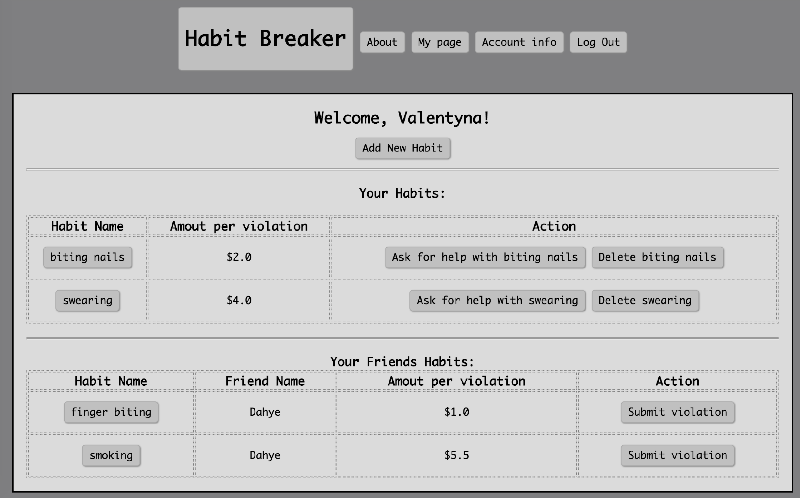
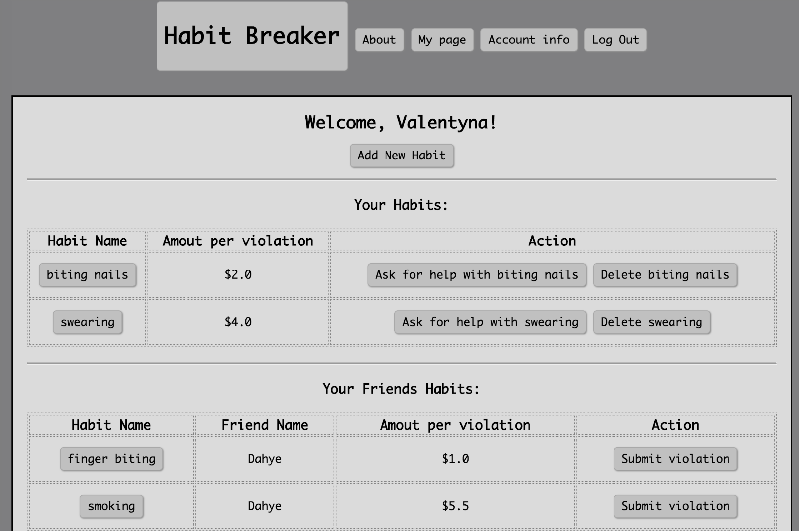
updated pictures for habitbreakers project and modifyed index.html for the propper representation pictures and links

diff --git a/index.html b/index.html
@@ -206,7 +206,7 @@
                                             <p>AngularJS, Firebase, AngularFire, Firepad, Codemirror, HTML5, CSS</p>
                                         </div>
                                     </div>
-                                    <img src="img/portfolio_dn1.png" class="img-portfolio img-responsive" alt="">
+                                    <img src="img/portfolio_dn1.png" class="img-portfolio img-responsive" alt="Screen shot of the web page dojoninjas-29b0d.firebaseapp.com">
                                 </a>
                             </div>
                         </div>
@@ -219,7 +219,7 @@
                                             <p>Ruby on Rails, RSpec, PostgreSQL, HTML5, CSS, Bootstrap, AWS</p>
                                         </div>
                                     </div>
-                                    <img src="img/portfolio-2.jpg" class="img-portfolio img-responsive" alt="">
+                                    <img src="img/portfolio-2.jpg" class="img-portfolio img-responsive" alt="Screen shot of the web page http://dreamsbakery.vgorbachenko.com after loging in">
                                 </a>
                             </div>
                         </div>
@@ -232,7 +232,7 @@
                                             <p>Python, MySQL, Pylot MVC, Twilio API, HTML5, CSS, AWS</p>
                                         </div>
                                     </div>
-                                    <img src="img/portfolio-3.jpg" class="img-portfolio img-responsive" alt="">
+                                    <img src="img/portfolio_hb1.png" class="img-portfolio img-responsive" alt="Screen shot of the web page http://habitbreakers.vgorbachenko.com after loging in">
                                 </a>
                             </div>
                         </div>
@@ -245,7 +245,7 @@
                                             <p>WordPress, HTML5, CSS, CMS, freezoy</p>
                                         </div>
                                     </div>
-                                    <img src="img/portfolio_vv1.png" class="img-portfolio img-responsive" alt="">
+                                    <img src="img/portfolio_vv1.png" class="img-portfolio img-responsive" alt="Screen shot of the home page http://gorbachenko.freezoy.com">
                                 </a>
                             </div>
                         </div>
@@ -414,8 +414,8 @@
                         <div class="modal-body">
                             <h2>HabitBreakers</h2>
                             <hr class="star-primary">
-                            <a href="https://github.com/ValentynaGorbachenko/habitbreaker"><img src="img/portfolio-3.jpg" class="img-responsive img-portfolio" alt=""></a>
-                            <p>Collaborated on a team of four to create an application that helps people to break their habits. Idea is to register and ask your friends or relatives to help you break your habit. Any user can have habits and ask for help by setting a fee to be payed to the helper/non-profit, or be a helper and track habit holder and submit violation.</p>
+                            <a href="http://habitbreakers.vgorbachenko.com"><img src="img/portfolio_hb1.png" class="img-responsive img-portfolio" alt="Screen shot of the web page after loging in to the http://habitbreakers.vgorbachenko.com" title="Screen shot of the web page after loging in"><img src="img/portfolio_hb2.png" class="img-responsive img-portfolio" alt="Screen shot of the web page http://habitbreakers.vgorbachenko.com that shows list of helpers" title="Screen shot of the web page that shows list of helpers"><img src="img/portfolio_hb3.png" class="img-responsive img-portfolio" alt="Screen shot of the web page http://habitbreakers.vgorbachenko.com that shows a form where user can update its information" title="Screen shot of the web page that shows a form where user can update its information"><img src="img/portfolio_hb4.png" class="img-responsive img-portfolio" alt="Screen shot of the web page http://habitbreakers.vgorbachenko.com that shows a form where user can create a new habit" title="Screen shot of the web page that shows a form where user can create a new habit"></a>
+                            <p>Collaborated on a team of four to create an application that helps people to break their habits. Idea is to register and ask your friends or relatives to help you break your habit. Any user can have habits and ask for help by setting a fee to be payed to the helper/non-profit, or to be a helper and track your friends habits and submit violations.</p>
                             <p>Owned design of the database, overall architecture of the app, full CRUD operations for users and habits.</p>
                             <p><strong>Technology used</strong>: Python, MySQL, Pylot MVC, Twilio API, HTML5, CSS, AWS</p>
                             <ul class="list-inline item-details">
@@ -428,6 +428,10 @@
                                 </li>
                                 <li>GitHub:
                                     <strong><a href="https://github.com/ValentynaGorbachenko/dreams_bakery/tree/development ">https://github.com/ValentynaGorbachenko/dreams_bakery/tree/development </a>
+                                    </strong>
+                                </li>
+                                <li>Online:
+                                    <strong><a href="http://habitbreakers.vgorbachenko.com">http://habitbreakers.vgorbachenko.com</a>
                                     </strong>
                                 </li>
                             </ul>
